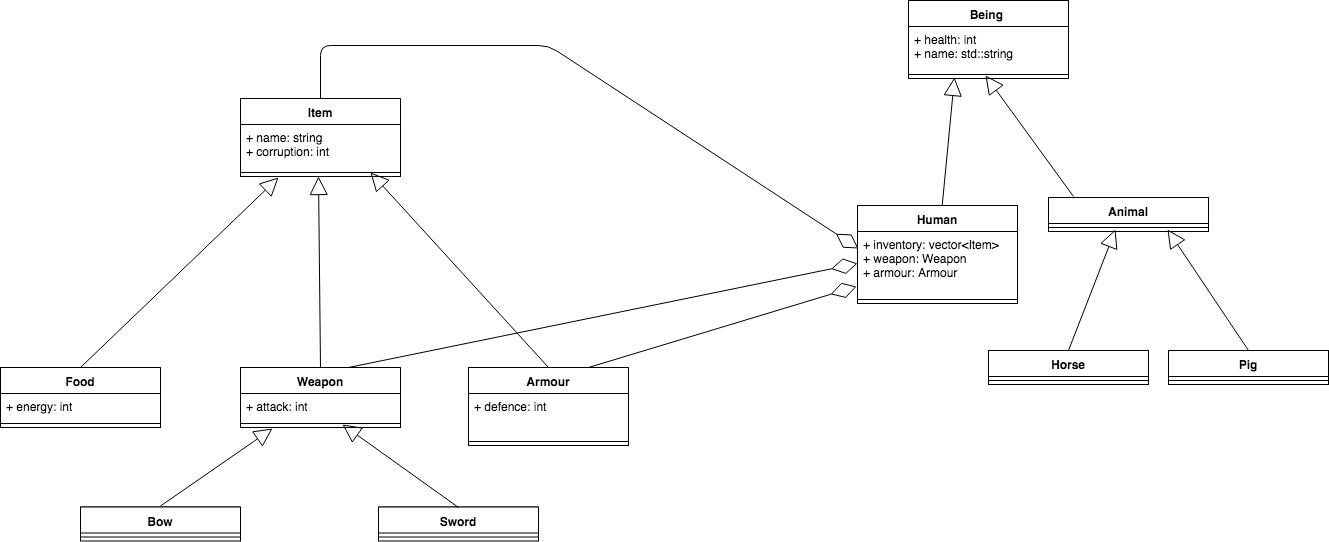
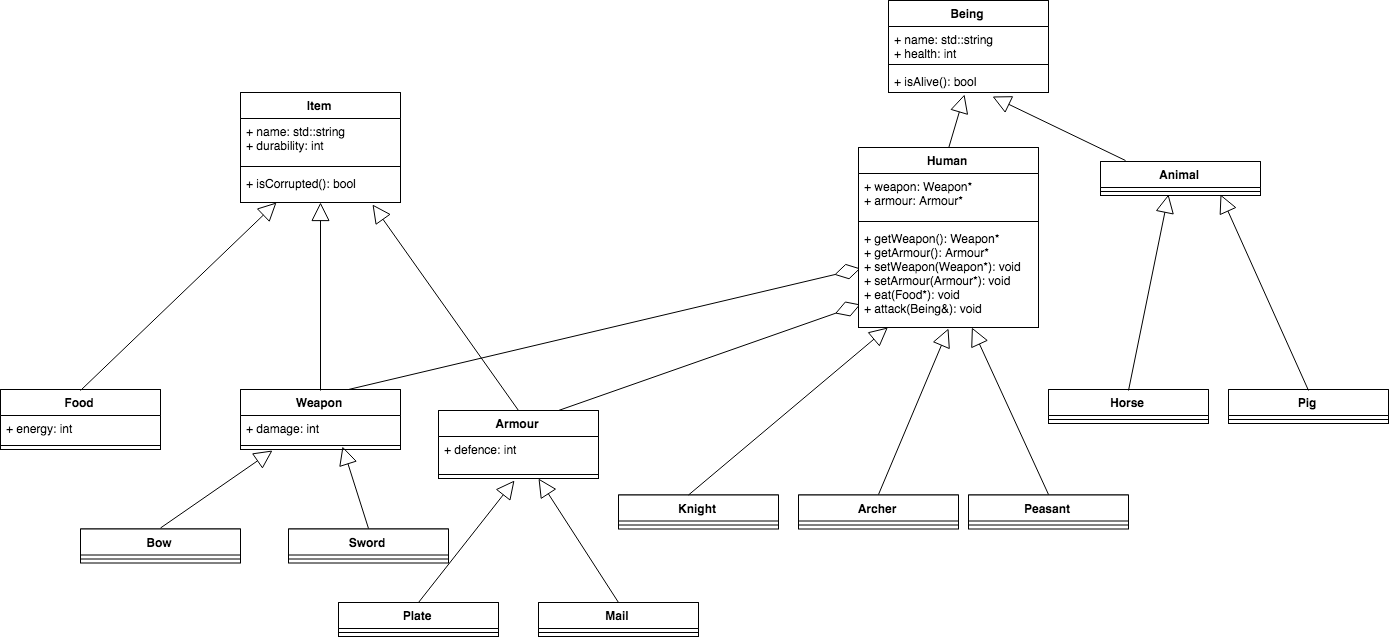
Add files via upload

diff --git a/homework/Bolychev/03/Game.cpp b/homework/Bolychev/03/Game.cpp
@@ -1,0 +1,185 @@
+#include <iostream>
+
+class Item {
+public:
+    std::string name;
+    int durability;
+
+    Item(const std::string& name_, const int durability_)
+            : name(name_), durability(durability_) {}
+
+    const bool isCorrupted() const { return durability <= 0; }
+};
+
+class Food: public Item {
+public:
+    int energy;
+
+    Food(const std::string& name_, const int durability_, const int energy_)
+            : Item(name_, durability_), energy(energy_) {}
+};
+
+class Meat: public Food {
+public:
+    Meat() : Food("Meat", 3, 50) {}
+};
+
+class Apple : public Food {
+public:
+    Apple() : Food("Apple", 7, 20) {}
+};
+
+class Weapon : public Item {
+public:
+    int damage;
+
+    Weapon(const std::string& name_, const int durability_, const int damage_)
+            : Item(name_, durability_), damage(damage_) {}
+};
+
+class Shovel : public Weapon {
+public:
+    Shovel() : Weapon("Shovel", 100, 20) {}
+};
+
+class Sword : public Weapon {
+public:
+    Sword() : Weapon("Sword", 100, 60) {}
+};
+
+class Bow : public Weapon {
+public:
+    Bow() : Weapon("Bow", 100, 45) {}
+};
+
+// Armors
+class Armour : public Item {
+public:
+    int defence;
+    Armour(const std::string& name_, const int durability_, const int defence_)
+            : Item(name_, durability_), defence(defence_) {}
+};
+
+class Mail : public Armour {
+public:
+    Mail() : Armour("Mail", 80, 70) {}
+};
+
+class Plate : public Armour {
+public:
+    Plate() : Armour("Plate", 70, 50) {}
+};
+
+class Being {
+public:
+    std::string name;
+    int health;
+
+    Being(std::string name_) : name(name_), health(100) {}
+    bool isAlive() const { return health > 0; }
+};
+
+// Characters
+class Human : public Being {
+public:
+    Human(std::string name_) : Being(name_) {}
+
+    Weapon* getWeapon() const { return weapon; }
+    Armour* getArmor() const { return armour; }
+
+    void setWeapon(Weapon* weapon_) { weapon = weapon_; }
+    void setArmor(Armour*armour_) { armour = armour_; }
+
+    void eat(Food* food_item) {
+        if (food_item->isCorrupted()) {
+            health -= 5;
+        } else {
+            health += food_item->energy;
+            health %= 100;
+        }
+
+        delete food_item;
+    }
+
+    void attack(Being& npc) {
+        if (weapon->isCorrupted()) {
+            npc.health -= 1;  // fists damage;
+        } else {
+            npc.health -= weapon->damage;
+            weapon->durability -= 5;
+        }
+    }
+
+private:
+    Weapon* weapon;
+    Armour*armour;
+};
+
+class Animal : public Being {
+public:
+    Animal(const std::string& name_) : Being(name_) {}
+};
+
+class Horse : public Animal {
+public:
+    Horse(const std::string& name_) : Animal(name_) {}
+};
+
+class Pig : public Animal {
+public:
+    Pig(const std::string& name_) : Animal(name_) {}
+};
+
+class Knight : public Human {
+public:
+    Knight(const std::string& name_) : Human(name_) {
+        setWeapon(new Sword());
+        setArmor(new Plate());
+    }
+};
+
+class Archer : public Human {
+public:
+    Archer(const std::string& name_) : Human(name_) {
+        setWeapon(new Bow());
+        setArmor(new Mail());
+    }
+};
+
+class Peasant : public Human {
+public:
+    Peasant(const std::string& name_) : Human(name_) { setWeapon(new Shovel()); }
+};
+
+
+int main() {
+    Peasant durak("Ivanushka Durachok");
+    Knight popovich("Alexey Popovich");
+
+    auto piece_of_meat = new Meat();
+
+    std::cout << "Game begins:\n=========================\n\n";
+    std::cout << durak.name << "'s health: " << durak.health << std::endl;
+    std::cout << popovich.name << "'s health: " << popovich.health << std::endl;
+
+    std::cout << "\nPopovich got angry with Ivanushka Durachok and hit him with a " <<
+        popovich.getWeapon()->name << " with damage = " <<
+        popovich.getWeapon()->damage << " and durability = " <<
+        popovich.getWeapon()->durability << std::endl;
+
+    popovich.attack(durak);
+
+    std::cout << "And now Durak's health equals " << durak.health << std::endl;
+
+    std::cout << "\nBut Ivan found a piece of meat and he is gonna eat it\n" << std::endl;
+    durak.eat(piece_of_meat);
+
+    std::cout << "Ivan's health now is quite OK: " << durak.health << std::endl;
+
+    std::cout << "But " << popovich.getWeapon()->name <<"'s durability equals now  " <<
+            popovich.getWeapon()->durability << std::endl;
+
+    std::cout << "\n=========================\nGame over" << std::endl;
+
+    return 0;
+}
